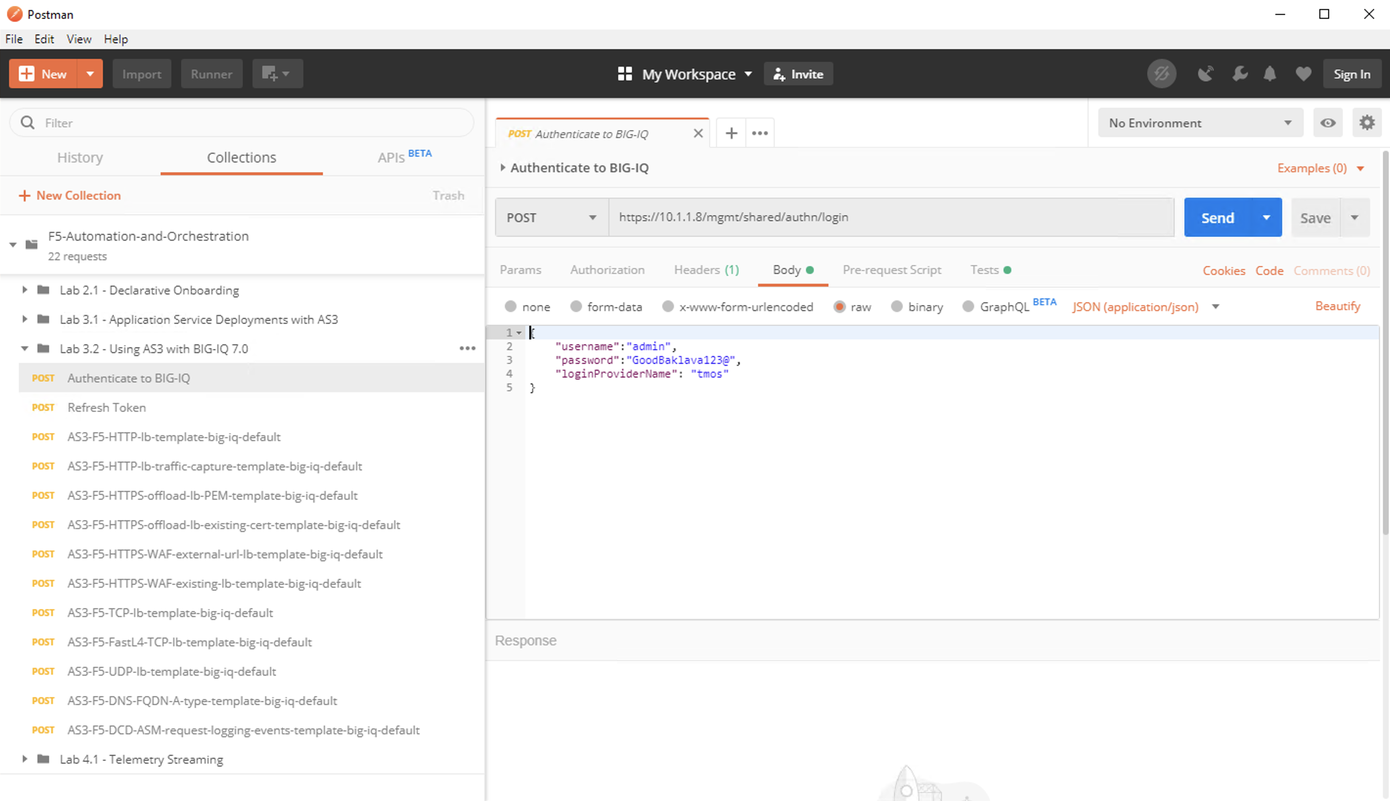
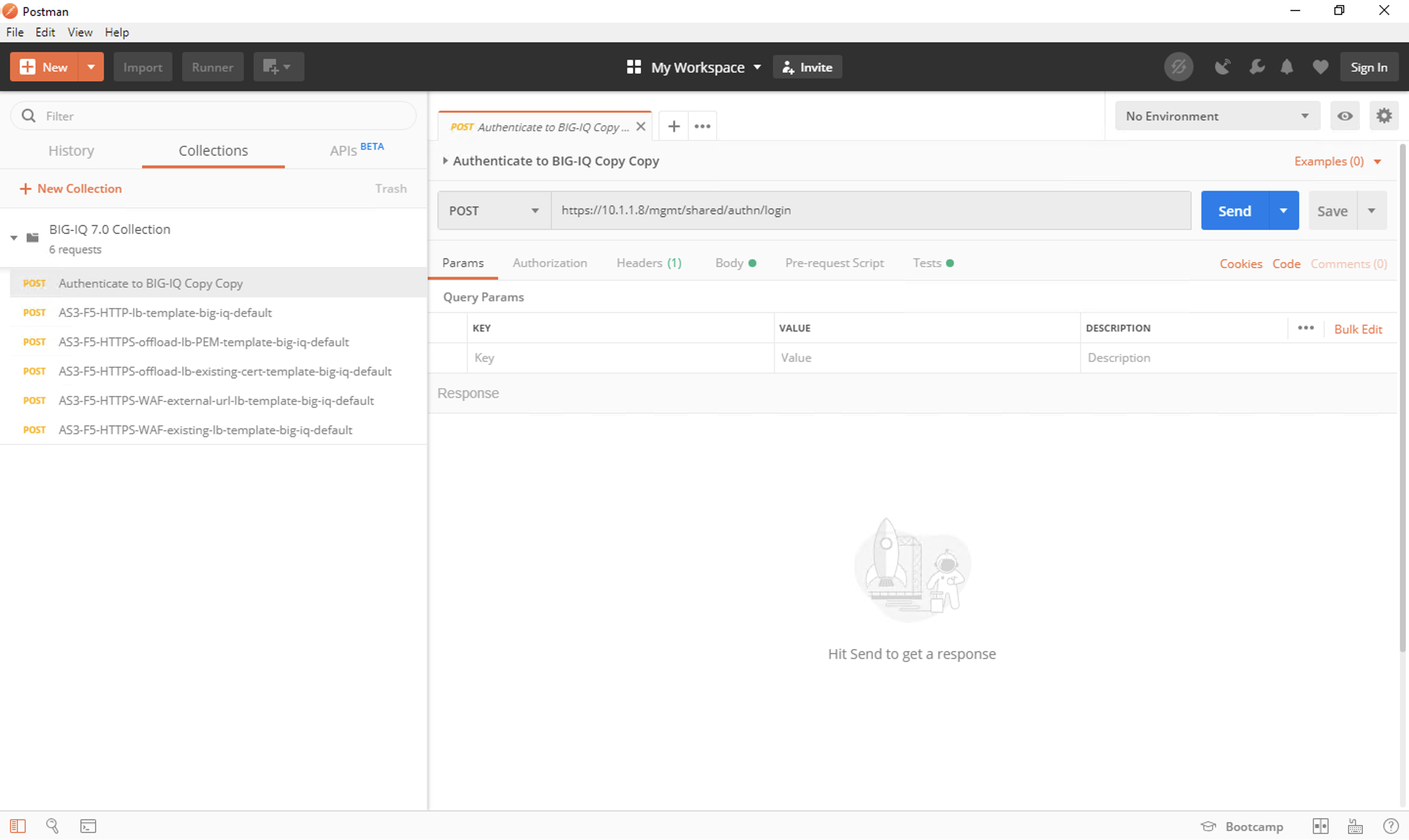
now updated merge

diff --git a/docs/_build/html/searchindex.js b/docs/_build/html/searchindex.js
@@ -1,5 +1,1 @@
-<<<<<<< HEAD
-Search.setIndex({docnames:["class2/class2","class3/class3","class3/module/do","class4/class4","class4/module/lab1","class4/module/module","class4/module2/lab2","class4/module2/module2","class5/class5","class5/module/telemetry","index"],envversion:52,filenames:["class2/class2.rst","class3/class3.rst","class3/module/do.rst","class4/class4.rst","class4/module/lab1.rst","class4/module/module.rst","class4/module2/lab2.rst","class4/module2/module2.rst","class5/class5.rst","class5/module/telemetry.rst","index.rst"],objects:{},objnames:{},objtypes:{},terms:{"class":[2,4],"default":[2,6],"goto":[],"import":6,"new":[6,9],"return":[4,9],"true":2,"var":[],"while":8,ASE:[],AWS:[0,8,10],And:[],DNS:[0,1,2,3,4,5,6,7,8,9,10],For:[2,6,8],IPs:2,One:[],That:[],The:[0,1,2,3,4,5,6,7,8,9,10],Then:4,These:[],Use:[],Using:[3,10],With:6,_build:[],_static:[],_templat:[],aaaaa:2,abl:[],about:4,abov:6,accept:[],access:[0,1,2,3,4,5,6,7,8,9,10],account:8,achiev:[],action:9,activ:[],adc:[],add:[6,9],added:[],address:[0,2,6,9],admin123:0,admin:[0,2,4,6,9],administr:[0,9],adminstr:[2,4],admonit:[],advanc:[0,1,2,3,4,5,6,7,8,9,10],afm:[],after:[],again:[],agil:[],agnost:3,all:[0,2,4,9],allowservic:2,along:9,alpha:[],alreadi:[2,4],alredi:[],also:[4,9],amazon:[],amazoncloudwatch:[],amount:8,ani:9,anoth:3,ao_log_group:[],ao_log_stream:[],api:[0,1,2,3,4,5,6,7,8,9,10],apirefer:[],apm:[],app:[0,1,3,5,7,8,9,10],app_made_by_as3_templ:6,applianc:[],applic:[0,1,2,4,5,7,8,9,10],application_1:[],appropri:[],approv:0,appsvc:[],as3:[0,4,10],asm:[],aspect:10,assign:[],assum:[1,3,8],assumpt:[1,3,8],async:2,attach:9,attent:[],auth:[],authent:6,authn:6,author:[],autom:[0,1,2,3,4,5,6,7,8,9,10],automatit:[],avail:[],averag:8,avg:[],awesom:[],aws:8,aws_cloudwatch:[],back:[2,9],bad:[],ball:[],bar:[2,4,6,9],bare:[],basic:[],bat:[],bbbbb:2,becaus:[],been:[0,4,9],befor:[],begin:9,being:[],below:[6,9],big:[0,1,3,5,8,10],bigip:[],bigiq_app_ten:[],bigiq_app_test:[],bigiq_public_api_ref:[],bigiqapp:[],bigiqv:[],bip:[],biq:[],blank:[],blob:[],block:[],blue:[6,9],blueprint:[2,4,9],board:[],bodi:6,bold:[],bookmark:[6,9],border:[],both:[],bottom:[2,4,6,9],box:6,bravo:[],browser:[0,1,4,6,8,9],bug:[0,1,2,3,4,5,6,7,8,9,10],build:[],busi:8,button:[2,4,6,9],call:0,callout:[],can:[0,1,2,3,4,5,6,7,8,9,10],care:[],carefulli:[],caution:[],ccccc:2,cell:[],cert:[],certif:[2,4,6,9],chang:6,charli:[],check:[4,6],choos:[],chrome:[0,2,4,6,9],ciphertext:[],claim:6,class1:[],class2:[],class3:[],class4:[],class5:[],class7:[1,3,8],classbold:[],classital:[],classnam:[],clear:[],click:[1,2,4,6,8,9],client:9,close:9,cloud:8,clouddoc:[1,2,3,8],cloudwatch:[8,10],code:2,collect:[2,4,6,8,9],com:[0,1,2,3,4,5,6,7,8,9,10],combin:9,command:[],common:[2,4,9],commun:[1,3,8],complet:[1,2,3,8],complianc:9,compon:[0,2,4,9],comput:2,conf:[],config:[],configu:2,configur:[1,3,5,8,10],connect:8,consol:9,consum:8,contain:[0,1,2,3,4,5,6,7,8,9,10],content:[0,1,2,3,4,5,6,7,8,9,10],control:[0,1,2,3,4,5,6,7,8,9,10],conveni:[],copi:9,correct:[],correspond:6,could:8,cover:[],creat:[7,9],credenti:[0,2,4,9],crowbar:[],current:[4,9],custom:[],custom_filtter_1:[],custom_metric_1:[],cut:[],cutter:[],dai:[8,9],danger:[],dash:[],dashboard:9,data:8,datacent:[],dcd:0,ddddd:2,declar:[0,5,6,8,10],declarati:[],delet:4,deliveri:[0,1,2,3,4,5,6,7,8,9,10],demo:[1,2,3,4,8,9],deploi:[5,8,10],deploy:[2,4,9],descript:[],desktop:[],detail:[2,4,9],dev:1,devic:2,devop:[0,1,2,3,4,5,6,7,8,9,10],differ:[],disabl:[],dismiss:9,dist:[],dns:[],doc:[],document:8,don:2,done:2,dot:[],down:[],download:9,dropdown:[2,4,6,8,9],drwxr:[],durat:9,edit:[0,1,2,3,4,5,6,7,8,9,10],eeeeeee:2,electr:[],element:[],email:1,emphasi:[],empti:6,enabl:[],end:[2,4,6,9],enforc:[0,1,2,3,4,5,6,7,8,9,10],enhanc:[0,1,2,3,4,5,6,7,8,9,10],ensur:[2,4,6],enter:[2,4,6,8,9],entri:9,environ:10,equival:[],error:6,etc:[],eval:[],examin:[],exampl:[],exclus:0,existing_pool:9,existing_v:9,exit:[2,4,6,9],expand:[],expect:[1,3,8],expir:6,expos:[],extend:8,extens:[2,10],extern:[0,2],external_default_gatewai:2,extrem:[],f5devcentr:[0,1,2,3,4,5,6,7,8,9,10],f5i:[],f5network:[],facilit:[1,3,8],fals:2,familiar:10,featur:[],feder:[1,8,9],few:[0,2],field:2,figur:[],file:[2,4,6,9],filter:[],find:9,firefox:[],firewal:[0,1,2,3,4,5,6,7,8,9,10],first:[],fix:6,flow:[],focu:[],folder:[],follow:[0,1,2,3,8],font:[],fontawesom:[],fonticon:[],format:[],found:9,four:[],from:[0,1,2,3,4,5,6,7,8,9,10],full:[0,1,2,3,4,5,6,7,8,9,10],futur:[],gear:[],gener:[1,2,4,6,8,10],get:[1,3,4,8,9,10],github:[0,1,2,3,4,5,6,7,8,9,10],githubusercont:[],give:9,global:[0,1,2,3,4,5,6,7,8,9,10],gmsmr:[],goal:[1,3,8],going:[],goodbaklava123:[0,2,6],googl:0,govern:9,grai:[],grap:[],graph:[],great:[],green:[2,4,9],grei:[2,4,6,9],grid:[],group:[2,8,10],gtm:[],gui:6,guid:[1,3,8],guidelin:[],hammer:[],handi:1,hardwar:[],has:[2,4,6],have:[0,2,4,9],header:[],heavi:[],help:10,here:[0,1,2,3,4,5,6,7,8,9,10],highlight:9,hint:[],home:[],host:8,hostnam:[2,6],hour:[],how:[1,3,5,7,8],howev:[],html:[1,2,3,8],http:[0,1,2,3,4,5,6,7,8,9,10],http_basic:[],http_default:[],http_index:[],http_pool:[],http_profil:[],http_servic:4,hyperlink:[],hypervisor:[],iam:[8,10],iapp:[],icon:[],icontrol:[0,1,2,3,4,5,6,7,8,9,10],ident:9,ieldt:[],ignor:[],iii:[],imag:[],image001:[],inc:[0,1,2,3,4,5,6,7,8,9,10],includ:0,index:[],info:[2,4,9],inform:[4,6,8,9],insert:[],insight:9,inspect:9,instal:[0,2],instanc:[4,9],instruct:[],instructor:[],integr:[1,3,8],intellig:[0,1,2,3,4,5,6,7,8,9,10],interact:0,interfac:2,intern:[0,2],interv:[],intro:[],invalid:6,ipi:[],isn:2,issu:[0,1,2,3,4,5,6,7,8,9,10],ital:[],item:[],its:9,iwf:[],iworkflow:[0,1,2,3,4,5,6,7,8,9,10],jaustinf5:[],json:6,jsp:[],jump:[],jumphost:0,jumppost:0,jun:[],justif:8,keep:1,kei:[0,1,2,8,9],knife:[],knive:[],know:[1,3,4,8],kqokz:[],lab1:[1,3,8],lab2:[],lab:[1,2,3,4,6,8,9],label:[],lamp:[],languag:[],latest:2,learn:[5,7],left:[2,4,6,9],let:9,leverag:[0,1,2,3,4,5,6,7,8,9,10],lic:[],licens:[1,2],licensetyp:2,lick:[],lift:[],light:[],like:[],line:[],link:[],linux:0,list:[2,9],load:6,local:[0,1,2,3,4,5,6,7,8,9,10],locat:[],log:[2,8,10],loggroup:[],login:[5,6,9],logstream:[],look:[],ltm:2,lwbzexewl9at:[],machin:0,made:[0,1,2,3,4,5,6,7,8,9,10],mai:[],main:0,make:[0,6],makefil:[],manag:[0,1,2,3,4,5,6,7,8,9,10],mani:8,manual:2,map:[6,9],mark:[],markdown:[],markup:[],mart:[],master:[],math:[],member:[],menu:[2,4,6,9],method:8,metric:[],mgmt:6,mine:6,minimum:[4,9],minut:[1,2,3,8],modifi:[],modul:[5,7,9],module1:[1,3,8],module2:[],monitor:[],monitortyp:[],more:[],most:4,mtu:2,muczt:[],must:[],my_as3_app:[],my_as3_ten:[],my_consum:[],my_listen:[],my_log_group:9,my_system:[],my_us:9,mydn:2,mylicens:2,myntp:2,myprovis:2,name:[2,6,9],nameserv:2,navig:[1,2,4,6,8,9],need:[],nest:[],net:[],network:[0,1,2,3,4,5,6,7,8,9,10],new_partit:[],newli:[],next:[1,6,9],noarch:[],nomin:2,none:2,note:9,notic:6,novfibg:[],now:[2,4,6,8,9],ntp:2,number:[],off:[2,4,6,9],onboard:[0,10],onbroad:[],onc:[0,2,9],one:[2,3,4,6,9],onli:2,onto:2,open:[0,1,2,3,4,5,6,7,8,9,10],option:[],orchestr:[0,1,2,3,4,5,6,7,8,9,10],order:[],org:2,origin:[],other:4,our:[4,6],out:0,outsid:0,overwrit:2,packag:[],page:[2,4,6,9],pane:[],partit:[4,6,9],passphras:[],password:[6,9],past:9,patch:2,perform:0,permiss:9,persist:[],phase:[],phillip:[],photo:[],pipelin:[0,1,2,3,4,5,6,7,8,9,10],place:[],plane:[],platform:8,pleas:[],png:[],point:0,polici:[0,1,2,3,4,5,6,7,8,9,10],pool:[0,2,6,9],pool_with_vip:[],pop:[2,4,6,9],port:[6,9],post:[2,4,9],postman:[0,1,3,5,7,8,10],postman_collect:[],power:[],pre:[],preconfigur:9,prefer:0,prerequisit:[1,8],present:[2,4,6,9],previou:[],previous:9,print:[],process:2,produc:9,product:2,profilehttp:[],programm:[],programmat:9,properti:6,provid:10,provis:2,publish:6,purpos:10,push:[],putti:[],queri:9,quickli:10,qweasdzxc123:[],r_auth_login:[],rackmount:[],radial:[],rail:[],rather:[],raw:[],rdp:[2,4,9],receiv:6,recent:4,red:[],refer:[],refresh:[],refreshtoken:[],reg:[],region:[],regist:6,registeremail:[],regkei:2,releas:[4,9],relev:8,reload:9,remark:[],remov:[],replac:[],repo:[],repositori:[0,1,2,3,4,5,6,7,8,9,10],request:[0,1,2,3,4,5,6,7,8,9,10],requir:[0,4,9],resend:6,resourc:[],respect:[],respons:[2,4,6],rest:[0,1,2,3,4,5,6,7,8,9,10],restructuredtext:[],result:9,retriev:9,review:9,revok:2,right:[6,9],root:[],rout:2,row:[],rpm:2,rst:[],run:9,safeti:[],sale:[],same:[],sampl:[],save:[],schema:[4,9],schemavers:2,scope:[],screen:[2,4,6,9],screenshot:[],screwdriv:[],scroll:[],search:[2,4,8,9],second:[],secret:[8,9],section:[1,3,6,8,9],secur:[0,1,2,3,4,5,6,7,8,9,10],see:[2,6,9],seen:6,select:[2,4,6,8,9],self:2,selfip:2,send:[1,5,7,8,10],sent:9,server:[0,2,6,9],serveraddress:[],servic:[4,8,9,10],service_gener:[],service_http:6,servicenow:[],serviceport:[],session:9,set:[1,2,4,6,9],setup:[0,8,10],share:6,sharp:[],shell:[],should:[2,4],show:[4,9],shown:[],sign:[2,4,6,9],similar:6,simpl:[],simplifi:3,sinc:[],site:[],skip:[2,4,6,9],soap:[0,1,2,3,4,5,6,7,8,9,10],softwar:[],some:10,sourc:[0,1,2,3,4,5,6,7,8,9,10],span:[],sphinx:[],spin:[],ssl:[2,4,6,9],stabl:[],staff:[],stand:[],start:[1,3,4,8,10],statu:2,step:[],sticki:9,store:6,straight:[2,4,6,9],stream:[0,9,10],submit:8,substitut:[],success:[],sum:[],support:[],sure:6,surfac:[],syntax:[],sys:[],system:[0,2,4,9],systempol:[],tab:[2,4,6,9],tabl:[],tag:[2,9],take:[2,4,6,8,9],target:6,task:[],teach:[],technolog:8,telemetri:[0,9,10],telemetry_consum:[],telemetry_listen:[],telemetry_system:[],templat:7,tenant:[2,4,6],test:0,test_log_group:9,test_log_stream:9,test_us:[],text:[2,4,6,9],than:4,them:9,theme:[],themselv:[],thi:[0,1,2,3,4,5,6,7,8,9,10],thing:[0,2],three:[],through:0,ticket:8,tile:[1,2,4,8,9],time:[1,3,8,9],timeout:[],timezon:2,tip:[],titl:6,tmo:[],tmsh:[],todo:[],todo_emit_warn:[],todo_include_todo:[],todolist:[],togeth:[],toggl:[2,4,6,9],token:6,tool:1,toolchain:[2,4,9,10],top:9,topic:[],topolog:10,total:[],touch:[],trace:[],traffic:[0,1,2,3,4,5,6,7,8,10],trafficgroup:2,train:[1,3,8],tree:[],turn:[],tutori:[1,3,8],two:[],type:[6,9],udf:[5,8,10],under:[2,4,6,9],unord:[],until:[2,4,9],upgrad:3,upload:6,uri:6,url:[],use:[1,2,3,5,7,8],used:[],user:[8,10],usernam:[6,9],uses:8,using:[0,1,2,3,4,5,6,7,8,9,10],utc:2,util:2,v12:[],v13:0,v14:0,v16:[],valid:2,valu:6,verif:[2,4,6,9],verifi:4,verificatt:[],verison:[],version:[2,3,4,6,9],via:[],view:[7,8,10],vip:6,virtual:[0,1,2,3,4,5,6,7,8,9,10],virtual_serv:[],virtualaddress:[],virtualport:[],vlan:[0,2],waf:[1,3,8],wai:0,wait:[2,4,9],want:8,warn:[],web:[],webserv:[],websit:[],welcom:10,west:2,when:[1,2,6],whenev:[],which:0,win2016:[2,4,9],window:[0,9],within:[0,1,2,3,4,5,6,7,8,9,10],without:7,work:[0,6],workd:[],would:[],www:[],xubuntu:[],year:[],yes:[],ylwbzexewl9at:[0,2,4],you:[0,1,2,3,4,5,6,7,8,9,10],your:[0,1,6,8,9],zero:[]},titles:["1. Environments &amp; Lab Topology","2. Declarative Onboarding","2.1. Declarative Onboarding \u2013 Getting Started","3. Application Services 3 Extension (AS3)","3.1.1. Deploy UDF","3.1. AS3 \u2013 Getting Started","3.2.1. Using AS3 with BIG-IQ 7.0","3.2. Using AS3 with Big-IQ","4. Telemetry Streaming","4.1. Setup AWS CloudWatch IAM User","F5 Agility Labs - Index"],titleterms:{"class":[],"import":[],"new":[],AWS:9,One:[],Using:[6,7],With:[],accept:[],add:[],admonit:[],agil:10,also:[],app:[2,4,6],applianc:[],applic:[3,6],as3:[3,5,6,7],attent:[],autom:[],awesom:[],big:[2,4,6,7,9],browser:[],caution:[],chang:2,clear:[],cloudwatch:9,code:[],collect:[],column:[],common:[],compon:[],configur:[2,4,6,9],connect:[],cord:[],creat:6,custom:[],danger:[],datacent:[],declar:[1,2,4,9],deploi:[2,4,9],download:[],edit:[],emphasi:[],enabl:[],environ:0,error:[],exampl:[],extens:3,extern:[],file:[],font:[],format:[],four:[],from:[],gener:9,get:[2,5],giant:[],github:[],grid:[],group:9,hint:[],hyperlink:[],hypervisor:[],iam:9,icon:[],icontrol:[],imag:[],index:10,instal:[],instanc:[],intern:[],lab:[0,10],let:[],list:[],log:9,login:[2,4],map:[],markdown:[],markup:[],metric:[],modul:[],nest:[],network:[],note:[],onboard:[1,2],open:[],option:[],orchestr:[],order:[],partit:[],phase:[],postman:[2,4,6,9],power:[],pre:[],prerequisit:[],rack:[],rdp:[],request:[],requir:[],rpm:[],sampl:[],send:[2,4,6,9],servic:3,setup:9,show:[],simpl:[],start:[2,5,9],stream:8,stub:[],substitut:[],support:[],tabl:[],task:[],telemetri:8,templat:6,text:[],three:[],tip:[],tmsh:[],todo:[],togeth:[],topolog:0,traffic:9,turn:[],two:[],udf:[2,4,9],unord:[],unpack:[],upload:[],user:9,verifi:2,view:[6,9],virtual:[],warn:[],web:[],welcom:[],without:6,your:[]}})
-=======
-Search.setIndex({docnames:["class2/class2","class3/class3","class3/module/do","class4/class4","class4/module/lab1","class4/module/module","class4/module2/lab2","class4/module2/module2","class5/class5","class5/module/telemetry","index"],envversion:52,filenames:["class2/class2.rst","class3/class3.rst","class3/module/do.rst","class4/class4.rst","class4/module/lab1.rst","class4/module/module.rst","class4/module2/lab2.rst","class4/module2/module2.rst","class5/class5.rst","class5/module/telemetry.rst","index.rst"],objects:{},objnames:{},objtypes:{},terms:{"class":[2,4,9],"default":[2,4,6,9],"goto":[],"import":7,"new":[5,6,9],"true":[2,4],"var":[],"while":8,ASE:[],AWS:[0,8,10],And:[],DNS:[0,1,2,3,4,5,6,7,8,9,10],For:[6,8,9],IPs:2,One:[],That:[],The:[0,1,2,3,4,5,6,7,8,9,10],These:[],Use:[2,6],Using:[3,10],With:6,_build:[],_static:[],_templat:[],abl:6,abov:6,accept:[],access:[0,1,2,3,4,5,6,7,8,9,10],account:8,achiev:[],action:[4,9],activ:[],adc:4,add:[2,5,6,9],added:[],address:[0,2,6,9],admin123:[0,6],admin:[0,2,4,6,9],administr:[0,9],adminstr:[2,4],admonit:[],advanc:[0,1,2,3,4,5,6,7,8,9,10],afm:[],after:[],again:[],agil:[],agnost:3,all:[0,2,4,9],allowservic:2,along:9,alpha:[],alreadi:[2,4],alredi:9,also:[4,9],amazon:[],amazoncloudwatch:[],amount:8,ani:9,anoth:3,ao_log_group:[],ao_log_stream:[],api:[0,1,2,3,4,5,6,7,8,9,10],apirefer:[],apm:[],app:[0,1,3,5,6,7,8,9,10],app_made_by_as3_templ:6,applianc:[],applic:[0,1,2,4,5,7,8,9,10],application_1:[],appropri:[],approv:0,appsvc:4,as3:[0,4,10],asm:[],aspect:10,assign:[],assum:[1,3,8],assumpt:[1,3,8],async:2,attach:9,attent:[],auth:[2,4,9],authent:6,authn:6,author:[2,4,9],autom:[0,1,2,3,4,5,6,7,8,9,10],automatit:[],avail:9,averag:8,avg:[],awesom:[],aws:8,aws_cloudwatch:9,back:[2,9],bad:[],ball:[],bar:[2,4,6,9],bare:[],basic:[2,4,9],bat:[],becaus:9,been:[0,9],befor:[],begin:9,being:9,below:[2,6,9],big:[0,1,3,5,8,10],bigip:4,bigiq_app_ten:[],bigiq_app_test:[],bigiq_public_api_ref:[],bigiqapp:[],bigiqv:[],bip:[],biq:[],blank:[],blob:[],block:[],blue:[6,9],blueprint:[2,4,9],board:[],bodi:[2,4,6,9],bold:[],bookmark:[6,9],border:[],both:[],bottom:[2,4,9],box:[4,6],bravo:[],browser:[0,1,4,6,8,9],bug:[0,1,2,3,4,5,6,7,8,9,10],build:[],busi:8,button:[2,4,6,9],call:[0,4],callout:[],can:[0,1,2,3,4,5,6,7,8,9,10],care:[],carefulli:[],caution:[],cell:[],cert:[],certif:[2,4,6,9],chang:6,charli:[],check:[2,4,6,9],choos:[],chrome:[0,2,4,6,9],ciphertext:9,claim:6,class1:[],class2:[],class3:[],class4:[],class5:[],class7:[1,3,8],classbold:[],classital:[],classnam:[],clear:4,click:[1,2,4,6,8,9],close:9,cloud:8,clouddoc:[1,2,3,8],cloudwatch:[8,10],code:[],collect:[5,7,8,9],com:[0,1,2,3,4,5,6,7,8,9,10],combin:9,command:[],common:[2,4,9],commun:[1,3,8],complet:[1,3,8],complianc:9,compon:[0,2,4,9],comput:2,conf:[],config:[],configur:[1,3,5,8,10],connect:8,consol:9,consum:8,contain:[0,1,2,3,4,5,6,7,8,9,10],content:[0,1,2,3,4,5,6,7,8,9,10],control:[0,1,2,3,4,5,6,7,8,9,10],conveni:[],copi:9,correct:4,correspond:6,could:8,cover:[],creat:[5,7,9],credenti:[0,2,4,9],crowbar:[],current:9,custom:[],custom_filtter_1:[],custom_metric_1:[],cut:[],cutter:[],dai:[8,9],danger:[],dash:[],dashboard:9,data:8,datacent:[],dcd:0,declar:[0,5,6,9,10],declarati:[],delet:4,deliveri:[0,1,2,3,4,5,6,7,8,9,10],demo:[1,2,3,4,8,9],deploi:[5,8,10],deploy:[2,4,9],descript:[],desktop:6,detail:[2,4,9],dev:1,devic:2,devop:[0,1,2,3,4,5,6,7,8,9,10],differ:[],disabl:[],dismiss:9,dist:[],dns:[],doc:[],document:8,don:2,done:[],dot:[2,4,9],down:[],download:9,dropdown:[2,4,6,8,9],drwxr:[],durat:9,edit:[0,1,2,3,4,5,6,7,8,9,10],electr:[],element:[],email:1,emphasi:[],empti:6,enabl:[],end:[2,4,6,9],enforc:[0,1,2,3,4,5,6,7,8,9,10],enhanc:[0,1,2,3,4,5,6,7,8,9,10],ensur:6,enter:[2,4,6,8,9],entri:9,environ:10,equival:[],error:6,etc:[],eval:[],examin:[],exampl:[],exclus:0,existing_pool:9,existing_v:9,exit:[2,4,9],expand:[2,4,9],expect:[1,3,8],expir:6,expos:9,extend:8,extens:[2,10],extern:[0,2],external_default_gatewai:2,extrem:[],f5devcentr:[0,1,2,3,4,5,6,7,8,9,10],f5i:[],f5network:[],facilit:[1,3,8],fals:2,familiar:10,featur:6,feder:[1,8,9],few:0,figur:[],file:[2,4,6,9],filter:[],find:9,firefox:[],firewal:[0,1,2,3,4,5,6,7,8,9,10],first:[],fix:6,flow:[],focu:[],folder:[],follow:[0,1,2,3,4,6,8,9],font:[],fontawesom:[],fonticon:[],format:[],found:9,four:[],from:[0,1,2,3,4,5,7,8,9,10],full:[0,1,2,3,4,5,6,7,8,9,10],futur:9,gear:[],gener:[1,2,4,6,8,10],get:[1,3,4,8,9,10],github:[0,1,2,3,4,5,7,8,9,10],githubusercont:6,give:9,global:[0,1,2,3,4,5,6,7,8,9,10],gmsmr:2,goal:[1,3,8],going:6,goodbaklava123:[0,2,6],googl:0,govern:9,grai:[],grap:[],graph:[],great:[],green:[2,4,9],grei:[2,4,9],grid:[],group:[2,8,10],gtm:[],gui:6,guid:[1,3,8],guidelin:[],hammer:[],handi:1,hardwar:[],has:[2,4,6],have:[0,2,4,9],header:[],heavi:[],help:10,here:[0,1,2,3,4,5,6,7,8,9,10],highlight:9,hint:[],home:[],host:8,hostnam:[2,6],hour:[1,3,8],how:[1,3,5,7,8],howev:[],html:[1,2,3,8],http:[0,1,2,3,4,5,6,7,8,9,10],http_basic:4,http_default:4,http_index:4,http_pool:4,http_profil:[],hyperlink:[],hypervisor:[],iam:[8,10],iapp:[],icon:[],icontrol:[0,1,2,3,4,5,6,7,8,9,10],ident:9,ieldt:2,ignor:[],iii:[],imag:[],image001:[],inc:[0,1,2,3,4,5,6,7,8,9,10],includ:0,index:[],info:[2,9],inform:[6,8],insert:[],insight:9,inspect:9,instal:[0,2],instruct:[],instructor:[],integr:[1,3,8],intellig:[0,1,2,3,4,5,6,7,8,9,10],interact:0,interfac:2,intern:[0,2],interv:9,intro:[],invalid:6,ipi:[],isn:2,issu:[0,1,2,3,4,5,6,7,8,9,10],ital:[],item:[],its:9,iwf:[],iworkflow:[0,1,2,3,4,5,6,7,8,9,10],jaustinf5:6,json:[2,4,6,9],jsp:[],jump:[],jumphost:0,jumppost:0,jun:[],justif:8,keep:1,kei:[0,1,2,8,9],knife:[],knive:[],know:[1,3,8],kqokz:2,lab1:[1,3,8],lab2:[],lab:[1,2,3,4,6,8,9],label:[],lamp:[],languag:[],latest:2,learn:[5,7],left:[2,4,6,9],let:9,leverag:[0,1,2,3,4,5,6,7,8,9,10],lic:[],licens:[1,2],licensetyp:2,lick:[],lift:[],light:[],like:[],line:2,link:6,linux:0,list:[2,9],load:6,local:[0,1,2,3,4,5,6,7,8,9,10],locat:[],log:[2,8,10],loggroup:9,login:[5,6,9],logstream:9,look:[],ltm:2,lwbzexewl9at:[],machin:0,made:[0,1,2,3,4,5,6,7,8,9,10],mai:[],main:0,make:[0,4,6],makefil:[],manag:[0,1,2,3,4,5,6,7,8,9,10],mani:8,manual:2,map:[6,9],mark:[],markdown:[],markup:[],mart:[],master:6,math:[],member:4,menu:[2,4,6,9],method:[2,4,8,9],metric:[],mgmt:[2,4,6,9],mine:6,minut:[],modifi:[],modul:[5,7,9],module1:[1,3,8],module2:[],monitor:4,monitortyp:[],more:[],mtu:2,muczt:2,must:[],my_as3_app:4,my_as3_ten:4,my_consum:9,my_listen:9,my_log_group:9,my_system:9,my_us:9,mydn:2,mylicens:2,myntp:2,myprovis:2,name:[2,4,6,9],nameserv:2,navig:[1,2,4,6,8,9],need:[],nest:[],net:[],network:[0,1,2,3,4,5,6,7,8,9,10],new_partit:4,newli:[2,4,9],next:[1,2,4,6,9],noarch:[],nomin:2,none:2,note:9,notic:6,novfibg:2,now:[2,4,6,8],ntp:2,number:[],off:[2,4,6,9],onboard:[0,10],onc:[0,6,9],one:[2,3,4,9],onli:2,onto:[],open:[0,1,2,3,4,5,6,7,8,9,10],option:[],orchestr:[0,1,2,3,4,5,6,7,8,9,10],order:[],org:2,origin:[],other:[],our:[4,6],out:0,outsid:0,overwrit:2,packag:9,page:[2,4,6,9],pane:[],partit:[4,6,9],passphras:9,password:[2,4,6,9],past:[2,4,6,9],patch:2,perform:0,permiss:9,persist:4,phase:[],phillip:[],photo:[],pipelin:[0,1,2,3,4,5,6,7,8,9,10],place:[],plane:[],platform:8,pleas:[],png:[],point:0,polici:[0,1,2,3,4,5,6,7,8,9,10],pool:[0,2,4,6,9],pool_with_vip:[],pop:[2,4,6,9],port:[6,9],post:[2,4,9],postman:[0,1,3,5,7,8,10],postman_collect:6,power:[],pre:6,preconfigur:9,prefer:0,prerequisit:[1,8],present:[2,4,9],previou:4,print:[],produc:9,product:2,profilehttp:4,programm:[],programmat:9,properti:6,provid:10,provis:2,publish:6,purpos:10,push:[],putti:[],queri:9,quickli:10,qweasdzxc123:[],r_auth_login:[],rackmount:[],radial:[2,4,9],rail:[],rather:[],raw:[2,4,6,9],rdp:[2,4,9],receiv:6,red:[],refer:[],refresh:[],refreshtoken:[],reg:[],region:9,regist:6,registeremail:[],regkei:2,relev:8,reload:9,remark:[],remov:[],replac:[],repo:[],repositori:[0,1,2,3,4,5,6,7,8,9,10],request:[0,1,2,3,5,6,7,8,9,10],requir:0,resend:6,resourc:[],respect:[],respons:6,rest:[0,1,2,3,4,5,6,7,8,9,10],restructuredtext:[],result:9,review:9,revok:2,right:[6,9],root:[],rout:2,row:[],rpm:[2,9],rst:[],run:9,safeti:[],sale:[],same:[],sampl:[],save:[2,4,9],schemavers:[2,4],scope:[],screen:[2,4,9],screenshot:[],screwdriv:[],scroll:[],search:[2,4,8,9],second:[],secret:[8,9],section:[1,3,4,6,8,9],secur:[0,1,2,3,4,5,6,7,8,9,10],see:[2,6,9],seen:6,select:[2,4,6,8,9],self:2,selfip:2,send:[1,5,7],server:[0,2,6,9],serveraddress:4,servic:[4,8,9,10],service_gener:4,service_http:6,servicenow:[],serviceport:4,session:9,set:[1,2,4,6,9],setup:[0,8,10],share:[2,4,6,9],sharp:[],shell:[],should:[2,4],show:[],shown:[],sign:[2,4,9],similar:6,simpl:[],simplifi:3,sinc:[],site:[],skip:[2,4,9],soap:[0,1,2,3,4,5,6,7,8,9,10],softwar:[],some:10,sourc:[0,1,2,3,4,5,6,7,8,9,10],span:[],sphinx:[],spin:[],ssl:[2,4,6,9],stabl:[],staff:[],stand:[],start:[1,3,4,8,10],statu:2,step:4,sticki:9,store:6,straight:[2,4,9],stream:[0,9,10],submit:8,substitut:[],success:[],sum:[],support:[],sure:[4,6],surfac:[],syntax:[],sys:[],system:[0,2,4,9],systempol:9,tab:[2,4,6,9],tabl:[],tag:[2,9],take:[2,4,8,9],target:6,task:[],teach:[],technolog:8,telemetri:[0,9,10],telemetry_consum:9,telemetry_listen:9,telemetry_system:9,templat:[4,7],tenant:[2,4,6],test:0,test_log_group:9,test_log_stream:9,test_us:[],text:[2,4,9],than:[],them:9,theme:[],themselv:[],thi:[0,1,2,3,4,5,6,7,8,9,10],thing:[0,2],three:[2,4,9],through:0,ticket:8,tile:[1,2,4,8,9],time:[1,3,4,8,9],timeout:[],timezon:2,tip:[],titl:6,tmo:[],tmsh:[],todo:[],todo_emit_warn:[],todo_include_todo:[],todolist:[],togeth:[],toggl:[2,4,9],token:6,tool:1,toolchain:[2,4,9,10],top:[6,9],topic:[],topolog:10,total:[],touch:[],trace:4,traffic:[0,1,2,3,4,5,6,7,8,10],trafficgroup:2,train:[1,3,8],tree:[],turn:6,tutori:[1,3,8],two:[],type:[2,4,6,9],udf:[5,8,10],under:[2,4,9],unord:[],until:[2,4,9],upgrad:3,upload:[6,9],uri:[2,6],url:[2,4,9],use:[1,3,4,5,7,8],used:[],user:[8,10],usernam:[2,4,6,9],uses:8,using:[0,1,2,3,4,5,6,7,8,9,10],utc:2,util:2,v12:[],v13:0,v14:0,v16:[],valu:6,verif:[2,4,9],verifi:4,verificatt:6,verison:[],version:[3,6],via:[],view:[7,8,10],vip:6,virtual:[0,1,2,3,4,5,6,7,8,9,10],virtual_serv:4,virtualaddress:4,virtualport:4,vlan:[0,2],waf:[1,3,8],wai:0,wait:[2,4,9],want:8,warn:[],web:[],webserv:[],websit:[],welcom:10,west:2,when:[1,6],whenev:[],which:[0,2,4,9],win2016:[2,4,9],window:[0,2,4,6,9],within:[0,1,2,3,4,5,6,7,8,9,10],without:7,work:[0,6],workd:[],would:[],www:[],xubuntu:[],year:[],yes:[],ylwbzexewl9at:[0,2,4],you:[0,1,2,3,4,5,6,7,8,9,10],your:[0,1,2,6,8,9],zero:[]},titles:["1. Environments &amp; Lab Topology","2. Declarative Onboarding","2.1. Declarative Onboarding \u2013 Getting Started","3. Application Services 3 Extension (AS3)","3.1.1. Deploy UDF","3.1. AS3 \u2013 Getting Started","3.2.1. Using AS3 with BIG-IQ 7.0","3.2. Using AS3 with Big-IQ","4. Telemetry Streaming","4.1. Setup AWS CloudWatch IAM User","F5 Agility Labs - Index"],titleterms:{"class":[],"import":6,"new":4,AWS:9,One:[],Using:[6,7],With:[],accept:[],add:4,admonit:[],agil:10,also:[],app:[2,4],applianc:[],applic:[3,6],as3:[3,5,6,7],attent:[],autom:[],awesom:[],big:[2,4,6,7,9],browser:[],caution:[],chang:2,clear:[],cloudwatch:9,code:[],collect:[2,4,6],column:[],common:[],compon:[],configur:[2,4,9],connect:[],cord:[],creat:[2,4,6],custom:[],danger:[],datacent:[],declar:[1,2,4],deploi:[2,4,9],download:[],edit:[],emphasi:[],enabl:[],environ:0,error:[],exampl:[],extens:3,extern:[],file:[],font:[],format:[],four:[],from:6,gener:9,get:[2,5],giant:[],github:6,grid:[],group:9,hint:[],hyperlink:[],hypervisor:[],iam:9,icon:[],icontrol:[],imag:[],index:10,instal:[],instanc:[],intern:[],lab:[0,10],let:[],list:[],log:9,login:[2,4],map:[],markdown:[],markup:[],metric:[],modul:[],nest:[],network:[],note:[],onboard:[1,2],open:[],option:[],orchestr:[],order:[],partit:[],phase:[],postman:[2,4,6,9],power:[],pre:[],prerequisit:[],rack:[],rdp:[],request:4,requir:[],rpm:[],sampl:[],send:[2,4,6],servic:3,setup:9,show:[],simpl:[],start:[2,5,9],stream:8,stub:[],substitut:[],support:[],tabl:[],task:[],telemetri:8,templat:6,text:[],three:[],tip:[],tmsh:[],todo:[],togeth:[],topolog:0,traffic:9,turn:[],two:[],udf:[2,4,9],unord:[],unpack:[],upload:[],user:9,verifi:2,view:[6,9],virtual:[],warn:[],web:[],welcom:[],without:6,your:[]}})
->>>>>>> 1b3618ba0dcaeaf30c892b0319efa9dc0d9c0f28
+Search.setIndex({docnames:["class4/module2/lab2","class4/module2/module2","index"],envversion:52,filenames:["class4/module2/lab2.rst","class4/module2/module2.rst","index.rst"],objects:{},objnames:{},objtypes:{},terms:{"default":0,"import":0,"new":0,AWS:2,DNS:[0,1,2],For:0,The:[0,1,2],Using:2,With:0,abl:0,abov:0,access:[0,1,2],add:0,address:0,admin123:0,admin:0,advanc:[0,1,2],api:[0,1,2],app:[1,2],app_made_by_as3_templ:0,applic:[1,2],as3:2,aspect:2,authent:0,authn:0,autom:[0,1,2],bar:0,below:0,big:2,blue:0,bodi:0,bookmark:0,bottom:0,box:0,browser:0,bug:[0,1,2],button:0,can:[0,1,2],certif:0,chang:0,check:0,chrome:0,claim:0,click:0,cloudwatch:2,collect:0,com:[0,1,2],configur:2,contain:[0,1,2],content:[0,1,2],control:[0,1,2],correspond:0,creat:1,declar:[0,2],deliveri:[0,1,2],deploi:2,devop:[0,1,2],dropdown:0,edit:[0,1,2],empti:0,end:0,enforc:[0,1,2],enhanc:[0,1,2],ensur:0,enter:0,environ:2,error:0,exit:0,expir:0,extens:2,f5devcentr:[0,1,2],familiar:2,file:0,firewal:[0,1,2],fix:0,from:[0,1,2],full:[0,1,2],gener:[0,2],get:2,github:[0,1,2],githubusercont:0,global:[0,1,2],goodbaklava123:0,grei:0,group:2,gui:0,has:0,help:2,here:[0,1,2],hostnam:0,how:1,http:[0,1,2],iam:2,icontrol:[0,1,2],inc:[0,1,2],inform:0,intellig:[0,1,2],invalid:0,issu:[0,1,2],iworkflow:[0,1,2],jaustinf5:0,json:0,lab:0,learn:1,left:0,leverag:[0,1,2],load:0,local:[0,1,2],log:2,login:0,made:[0,1,2],make:0,manag:[0,1,2],map:0,master:0,menu:0,mgmt:0,mine:0,modul:1,name:0,navig:0,network:[0,1,2],next:0,notic:0,now:0,off:0,onboard:2,onc:0,one:0,open:[0,1,2],orchestr:[0,1,2],our:0,page:0,partit:0,password:0,pipelin:[0,1,2],polici:[0,1,2],pool:0,pop:0,port:0,postman:[1,2],postman_collect:0,present:0,properti:0,provid:2,publish:0,purpos:2,quickli:2,raw:0,receiv:0,regist:0,repositori:[0,1,2],request:[0,1,2],resend:0,respons:0,rest:[0,1,2],right:0,screen:0,section:0,secur:[0,1,2],see:0,seen:0,select:0,send:[1,2],server:0,servic:2,service_http:0,set:0,setup:2,share:0,sign:0,similar:0,skip:0,soap:[0,1,2],some:2,sourc:[0,1,2],ssl:0,start:2,store:0,straight:0,stream:2,sure:0,tab:0,take:0,target:0,telemetri:2,templat:1,tenant:0,text:0,thi:[0,1,2],titl:0,toggl:0,token:0,toolchain:2,topolog:2,traffic:[0,1,2],type:0,udf:2,under:0,upload:0,uri:0,use:1,user:2,usernam:0,using:[0,1,2],valu:0,verif:0,version:0,view:[1,2],vip:0,virtual:[0,1,2],welcom:2,when:0,within:[0,1,2],without:1,work:0,you:[0,1,2],your:0},titles:["3.2.1. Using AS3 with BIG-IQ 7.0","3.2. Using AS3 with Big-IQ","F5 Agility Labs - Index"],titleterms:{Using:[0,1],agil:2,app:0,applic:0,as3:[0,1],big:[0,1],configur:0,creat:0,index:2,lab:2,postman:0,send:0,templat:0,view:0,without:0}})

diff --git a/docs/_build/html/class4/module2/lab2.html b/docs/_build/html/class4/module2/lab2.html
@@ -147,27 +147,18 @@ and then send that AS3 template to a target BIG-IP (10.1.1.7 for this lab).</p>
 <ol class="arabic simple" start="2">
 <li>At the bottom of the page in grey text select “Skip signing in and take me straight to the app”</li>
 </ol>
-<img alt="../../_images/skip.png" src="../../_images/skip.png" />
-<ol class="arabic simple" start="3">
-<li>If presented with one, exit the pop-up screen. Toggle off “SSL certification verification” by navigating to File then Settings then under the General tab, toggle SSL certification verification</li>
-</ol>
-<<<<<<< HEAD
-<img alt="../../_images/settings.png" src="../../_images/settings.png" />
-<img alt="../../_images/ssl.png" src="../../_images/ssl.png" />
-</div>
-=======
-<p>4. Use the Postman Import feature to import the pre-made Postman Collection.
-To do this: (1) Click the Import button. (2) Click Import from Link.
-(3) For the Postman Collection, paste in the following and (4) click Import.</p>
 <div class="highlight-text notranslate"><div class="highlight"><pre><span></span>https://raw.githubusercontent.com/jaustinf5/postman_collection/master/BIG-IQ 7.0 Collection.postman_collection.json
 </pre></div>
 </div>
-<img alt="../../_images/7_2.png" src="../../_images/7_2.png" />
+<ol class="arabic simple" start="3">
+<li>If presented with one, exit the pop-up screen. Toggle off “SSL certification verification” by navigating to File then Settings then under the General tab, toggle SSL certification verification</li>
+</ol>
 <ol class="arabic simple" start="5">
 <li>Once imported, you will be able to see the Postman Collection “BIG-IQ 7.0 Collection” as seen below.</li>
 </ol>
 <img alt="../../_images/7_3.png" src="../../_images/7_3.png" />
->>>>>>> 1b3618ba0dcaeaf30c892b0319efa9dc0d9c0f28
+<img alt="../../_images/ssl.png" src="../../_images/ssl.png" />
+</div>
 </div>
 <div class="section" id="send-as3-templates-to-big-iq-with-postman">
 <h1>3.2.3. Send AS3 Templates to BIG-IQ with Postman<a class="headerlink" href="#send-as3-templates-to-big-iq-with-postman" title="Permalink to this headline">¶</a></h1>
@@ -177,11 +168,7 @@ To do this: (1) Click the Import button. (2) Click Import from Link.
 </div>
 <p>When we send the declaration, the template will be stored on the BIG-IQ.</p>
 <ol class="arabic simple">
-<<<<<<< HEAD
-<li>Click on the Collections tab then click on “Lab 3.2 - Using AS3 with BIG-IQ 7.0” and open the request, “Authenticate to BIG-IQ”.</li>
-=======
 <li>Click into “BIG-IQ 7.0 Collection” and open the request, “Authenticate to BIG-IQ”.</li>
->>>>>>> 1b3618ba0dcaeaf30c892b0319efa9dc0d9c0f28
 <li>Open the “Body” tab to view the JSON declaration as seen below.</li>
 </ol>
 <img alt="../../_images/7_4.png" src="../../_images/7_4.png" />
